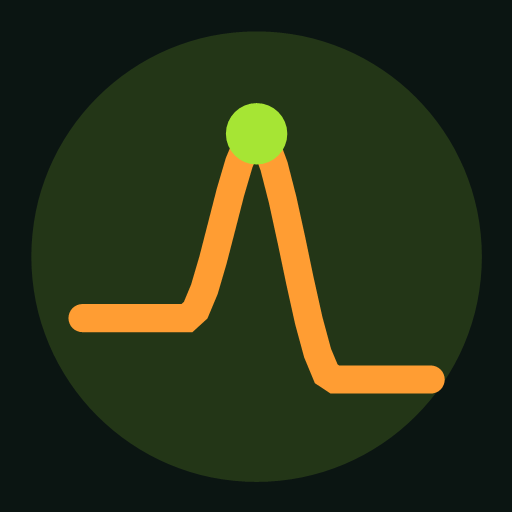
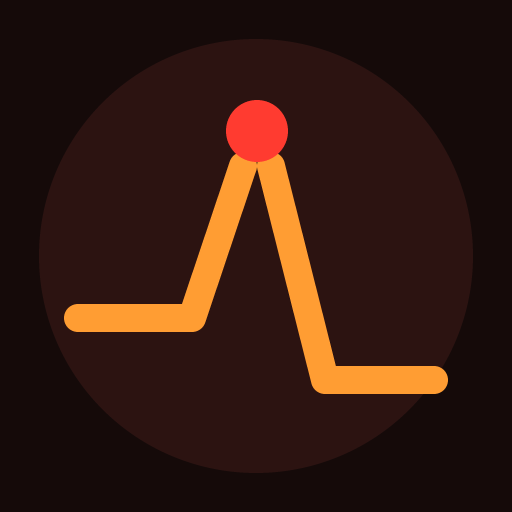
Tipografia do quadro menor e à esquerda; ícone no tema vermelho (v1.6.1)
Layout retrato do quadro:
- título -15% (78->66) e 2 linhas à esquerda (tituloU .550 -> .484)
- "Definição:" e a definição -10% (53->48, 45->41), com a entrelinha
  acompanhando (63->57) para o bloco não ficar frouxo
- o bloco de texto foi meia linha à esquerda, não uma. A margem esquerda
  do texto é o gargalo: ela nasce a ndcX -0.93 e a borda da tela é -1.00.
  Medido na tela mais estreita (412x915), 0.5 linha para em -0.98, mas
  0.75 vai a -1.01 e 1 linha a -1.04 — o primeiro caractere de cada linha
  ficaria cortado. O título não tem esse problema e levou o
  deslocamento cheio.

Ícone: imagens/icone-192.png e icone-512.png redesenhados. O desenho é o
mesmo — a curva da energia de ativação com o complexo ativado no topo —
mas o quadrado e o disco eram esverdeados e o ponto do topo era lima,
sobras do tema verde antigo. Agora fundo #150a09, disco #2c1311, curva
#ff9d33 (--quente) e ponto #ff3b30 (--rubi).

diff --git a/cinetica.html b/cinetica.html
@@ -805,7 +805,7 @@ canvas#cena3d.livre:active{ cursor:grabbing; }
   <div id="flashBranco"></div>
 
   <!-- Selo de versão (clique = câmera livre) + HUD -->
-  <div id="versao">v1.6.0</div>
+  <div id="versao">v1.6.1</div>
   <!-- HUD da câmera livre: conteúdo fixo (título + botão), montado aqui em vez
        de ser reescrito por JS a cada gesto. -->
   <div id="hudCamera">
@@ -878,7 +878,7 @@ canvas#cena3d.livre:active{ cursor:grabbing; }
    REGRA CRÍTICA: ao alterar o app, suba VERSAO aqui E a constante CACHE
    no sw.js (senão o celular fica com a versão antiga).
    ========================================================================== */
-const VERSAO = 'v1.6.0';
+const VERSAO = 'v1.6.1';
 
 const CORES = {
   /* --- SEMÂNTICAS: significam alguma coisa (calor, frio, catalisador,
@@ -1984,9 +1984,22 @@ const LAYOUT_QUADRO = {
      Fontes 30% menores que a calibragem anterior. Não é perda de tamanho na
      tela: a câmera nova olha o quadro de 16.6 de distância contra 24.1 da
      anterior, então a definição sai com ~14px de tela nos dois casos. */
-  retrato:  { colEsq:.276, colDir:.867, tituloU:.550,
-              tamTitulo:78, tamRotulo:53, tamDef:45,
-              tituloV:.150, fileteV:.200, rotuloV:.330, defV:.455, linha:63 }
+  /* Uma "linha" de deslocamento = 63px de textura, a entrelinha anterior.
+     A textura é isotrópica (1920x1024 sobre 10.5x5.6: 10.5/1920 = 5.6/1024),
+     então esses 63px valem a mesma distância na horizontal e na vertical —
+     dá para usar a entrelinha como régua para mover na horizontal.
+       título      -15% e 2 linhas à esquerda (.550 -> .484). Cabe folgado:
+                   a borda esquerda dele para em ndcX -0.73.
+       rótulo/def  -10% e MEIA linha à esquerda, não uma nem 0.75. A margem
+                   esquerda do texto é o gargalo — ela nasce a ndcX -0.93 e a
+                   borda da tela é -1.00. Medido na tela mais estreita
+                   (412x915): 0.5 linha -> -0.98 (passa), 0.75 -> -1.01 e
+                   1 linha -> -1.04 (o primeiro caractere seria cortado).
+     A entrelinha acompanha os -10% do corpo (63 -> 57), senão o bloco ficaria
+     frouxo com a letra menor. */
+  retrato:  { colEsq:.2596, colDir:.8506, tituloU:.484,
+              tamTitulo:66, tamRotulo:48, tamDef:41,
+              tituloV:.150, fileteV:.200, rotuloV:.330, defV:.455, linha:57 }
 };
 function ehRetrato(){ return window.innerHeight > window.innerWidth; }
 function layoutQuadro(){ return ehRetrato() ? LAYOUT_QUADRO.retrato : LAYOUT_QUADRO.paisagem; }

diff --git a/sw.js b/sw.js
@@ -11,7 +11,7 @@
        (áudios, imagens, three.js do CDN, manifest...)
    ========================================================================== */
 
-const CACHE = 'cinetica-v1.6.0';
+const CACHE = 'cinetica-v1.6.1';
 
 /* Arquivos essenciais pré-cacheados na instalação.
    Mantenha curto: áudios/imagens entram sozinhos no cache em runtime. */
